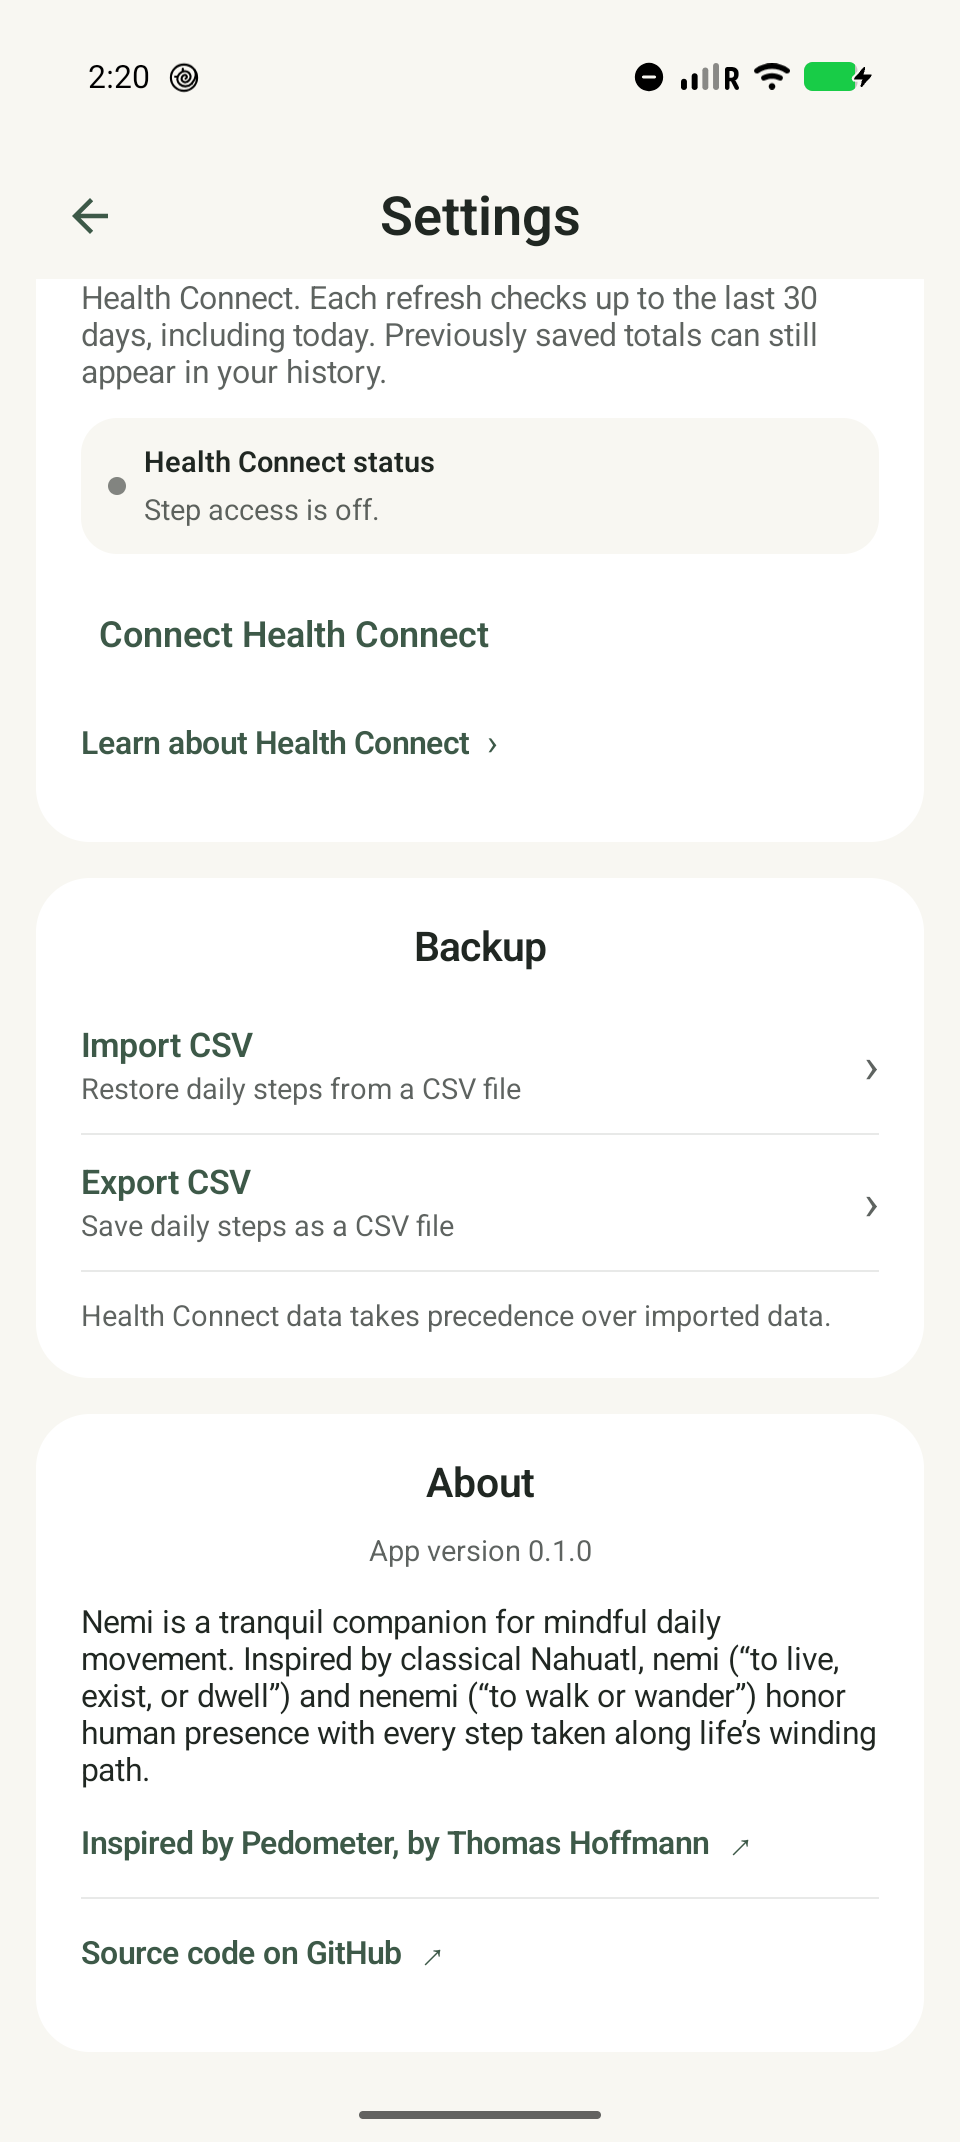
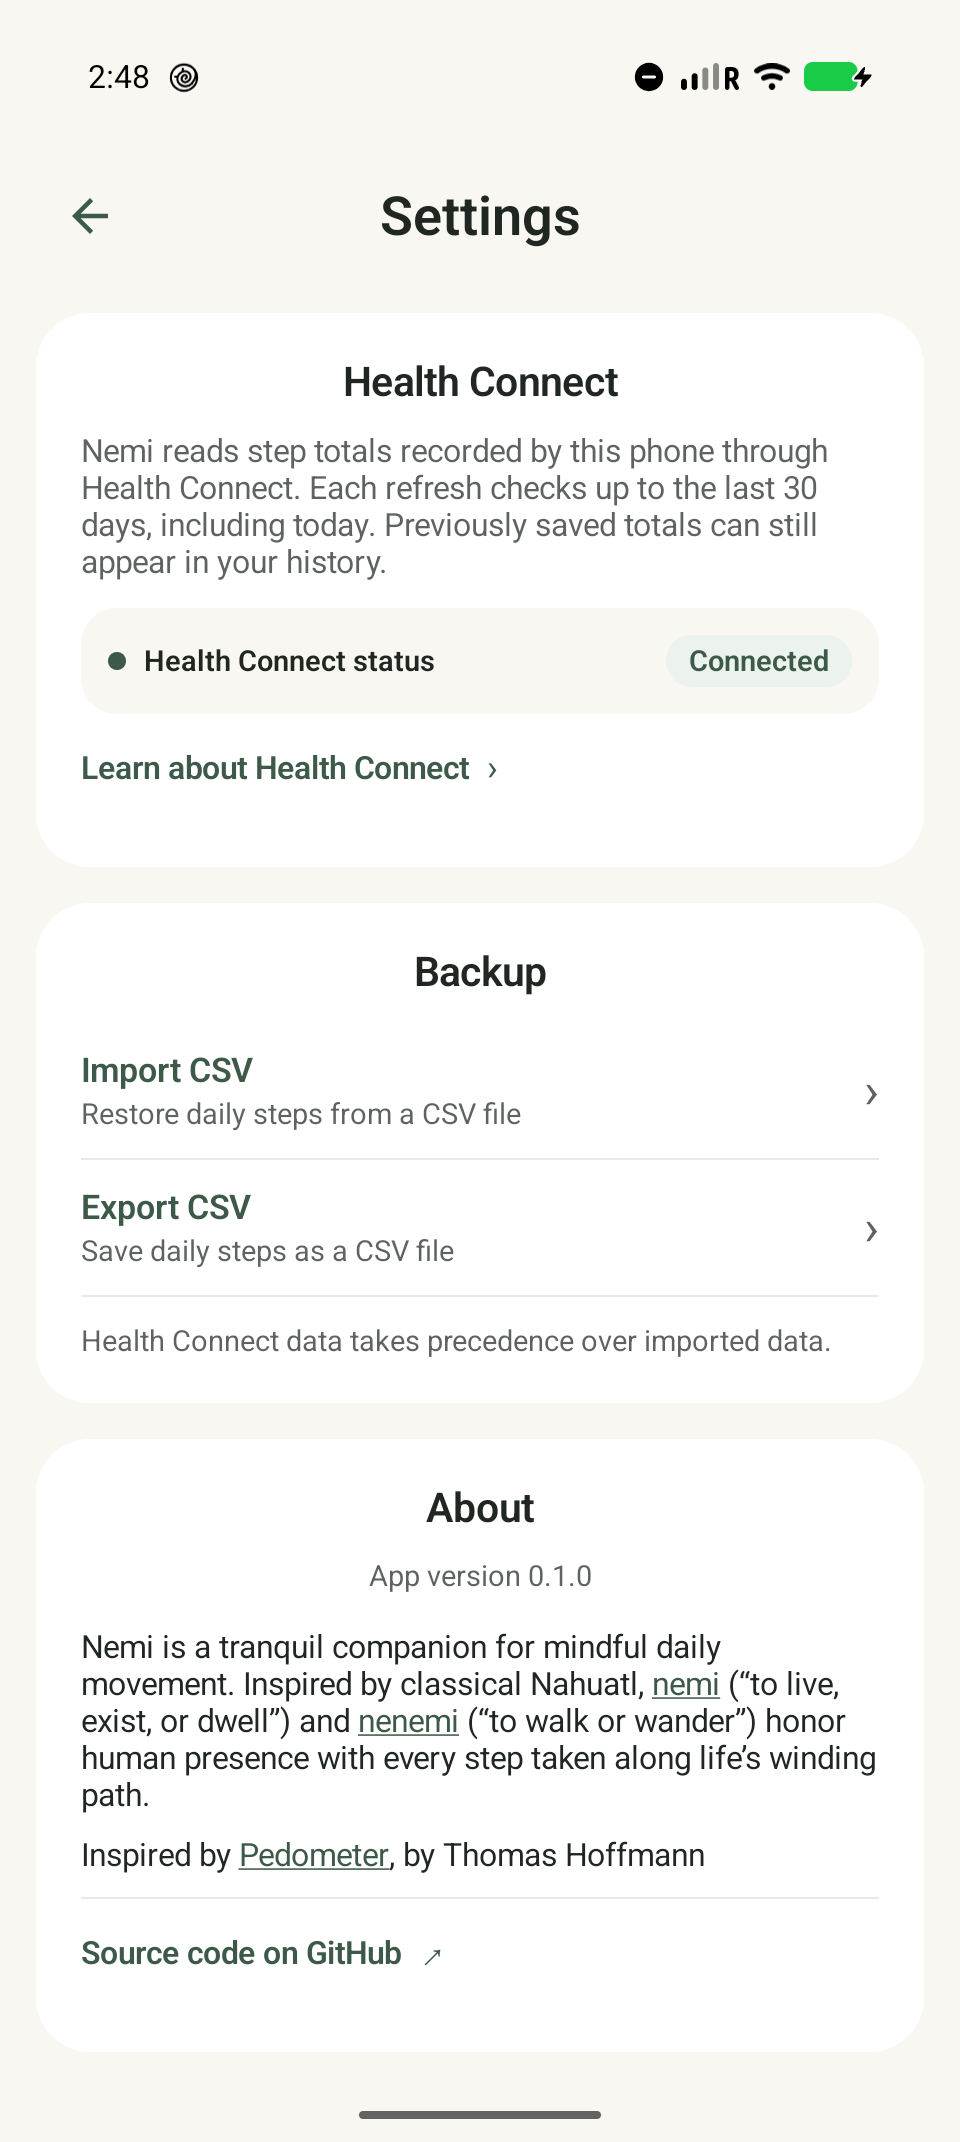
Link Nemi About references inline and refine copy

diff --git a/app/src/main/kotlin/dev/sjaramillo/nemi/ui/SettingsScreen.kt b/app/src/main/kotlin/dev/sjaramillo/nemi/ui/SettingsScreen.kt
@@ -27,6 +27,7 @@ import androidx.compose.foundation.selection.selectable
 import androidx.compose.foundation.selection.selectableGroup
 import androidx.compose.foundation.shape.CircleShape
 import androidx.compose.foundation.shape.RoundedCornerShape
+import androidx.compose.foundation.text.BasicText
 import androidx.compose.foundation.verticalScroll
 import androidx.compose.runtime.Composable
 import androidx.compose.runtime.LaunchedEffect
@@ -48,8 +49,15 @@ import androidx.compose.ui.semantics.clearAndSetSemantics
 import androidx.compose.ui.semantics.contentDescription
 import androidx.compose.ui.semantics.liveRegion
 import androidx.compose.ui.semantics.semantics
+import androidx.compose.ui.text.AnnotatedString
+import androidx.compose.ui.text.SpanStyle
+import androidx.compose.ui.text.TextLinkStyles
+import androidx.compose.ui.text.TextStyle
+import androidx.compose.ui.text.fromHtml
 import androidx.compose.ui.text.style.TextAlign
+import androidx.compose.ui.text.style.TextDecoration
 import androidx.compose.ui.unit.dp
+import androidx.compose.ui.unit.sp
 import dev.sjaramillo.nemi.R
 import dev.sjaramillo.nemi.data.HealthConnectSyncState
 import kotlin.math.abs
@@ -266,10 +274,26 @@ private fun AboutDetails(version: String) {
         secondary = true,
         align = TextAlign.Center,
     )
-    AppText(stringResource(R.string.about_text), size = 14)
-    SettingsLink(R.string.original_project, "https://github.com/j4velin/Pedometer")
+    AboutLinkedText(R.string.about_text)
+    AboutLinkedText(R.string.original_project, Modifier.padding(vertical = 10.dp))
     SectionDivider()
     SettingsLink(R.string.source_code, "https://github.com/sjaramillo10/Nemi")
+}
+
+@Composable
+private fun AboutLinkedText(
+    text: Int,
+    modifier: Modifier = Modifier,
+) {
+    val palette = LocalPalette.current
+    BasicText(
+        AnnotatedString.fromHtml(
+            stringResource(text),
+            linkStyles = TextLinkStyles(style = SpanStyle(color = palette.accent, textDecoration = TextDecoration.Underline)),
+        ),
+        modifier,
+        style = TextStyle(color = palette.text, fontSize = 14.sp),
+    )
 }
 
 @Composable

diff --git a/README.md b/README.md
@@ -5,9 +5,6 @@ Connect. Home shows today’s steps and goal progress, weekly totals, your best
 day, and lifetime steps. In Settings, you can change your daily goal and import
 or export a CSV backup. Export filenames include the date by default.
 
-Android installs Nemi separately from Pedometer. To bring over your step
-history, export a CSV backup in Pedometer and import it in Nemi.
-
 ## Build
 
 Use JDK 25 and Android SDK 37, then run `./gradlew :app:assembleDebug` from
